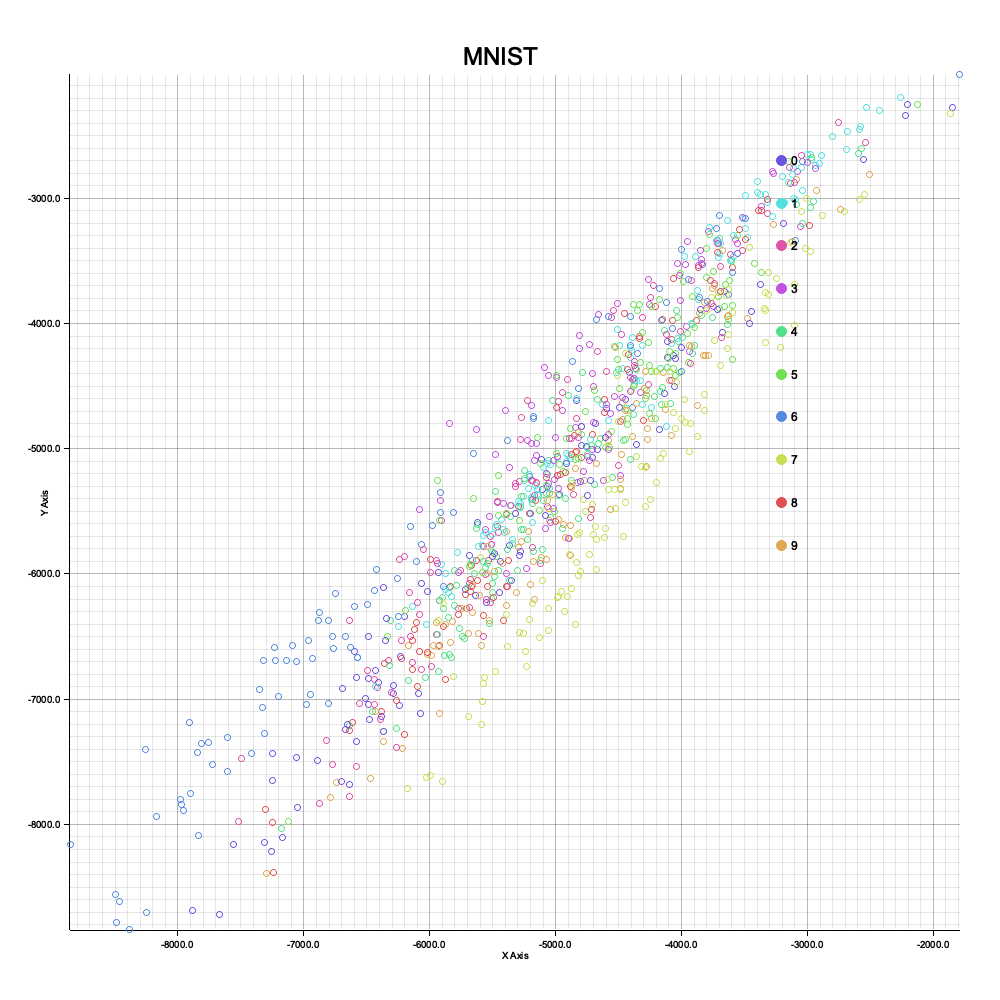
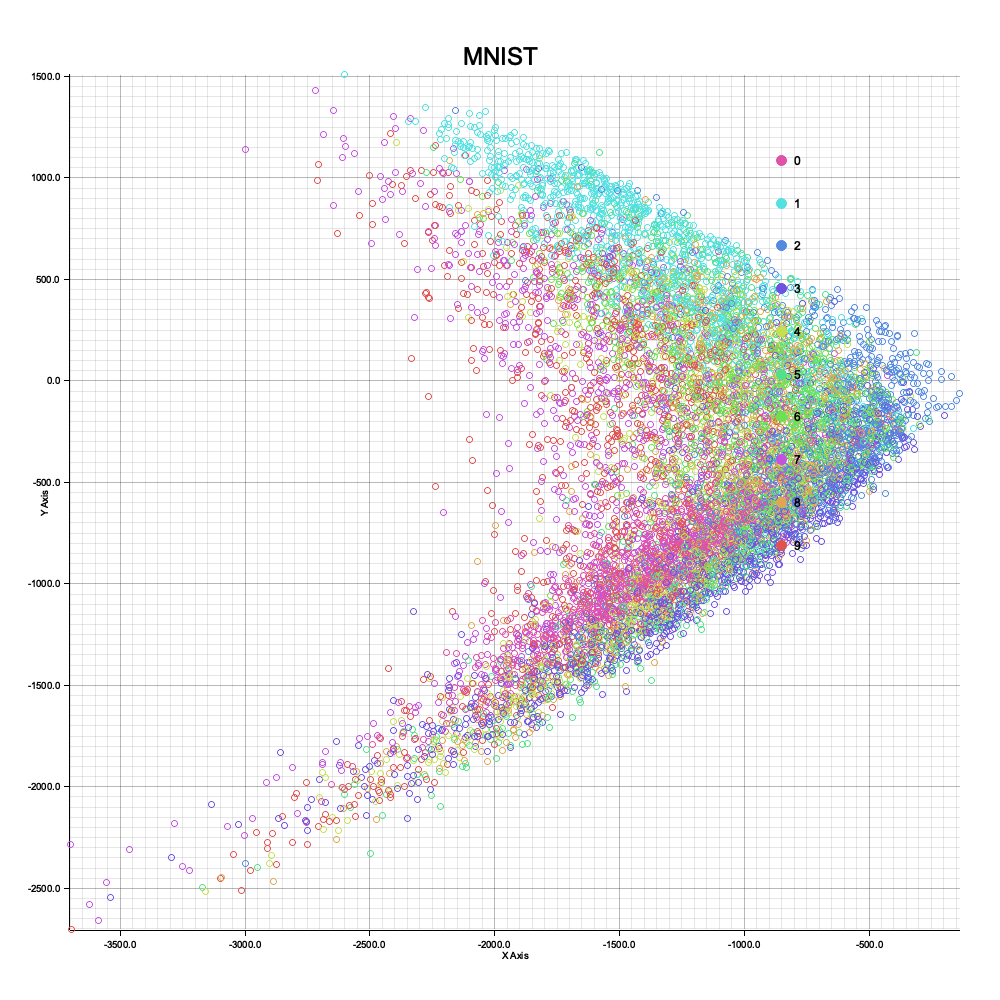
better allocation via parameters

Changed region(s): [[0.031, 0.062, 0.961, 0.961], [0.031, 0.062, 0.062, 0.093]]

diff --git a/examples/mnist.rs b/examples/mnist.rs
@@ -23,15 +23,16 @@ fn main() {
 
     // Set training hyperparameters
     let batch_size = 1_000; // Number of samples per batch during training
-    let num_samples = 1_000 as usize; // Total number of samples in the dataset
+    let num_samples = 10_000 as usize; // Total number of samples in the dataset
 
     // let num_samples = 50_000 as usize; // Total number of samples in the dataset
 
     let num_features = 28 * 28; // Number of features (dimensions) for each sample, size of each mnist image
     let k_neighbors = 15; // Number of nearest neighbors for the UMAP algorithm
     let output_size = 2; // Number of output dimensions (e.g., 2D for embeddings)
-    let hidden_sizes = vec![1000, 1000, 1000]; // Size of the hidden layer in the neural network
+    let hidden_sizes = vec![1000]; // Size of the hidden layer in the neural network
     let learning_rate = 1e-4; // Learning rate for optimization
+    let penalty = 1e-6; // penalty for the Adam optimizer
     let beta1 = 0.9; // Beta1 parameter for the Adam optimizer
     let beta2 = 0.999; // Beta2 parameter for the Adam optimizer
     let epochs = 1_000; // Number of training epochs
@@ -43,9 +44,8 @@ fn main() {
     let metric = Metric::Euclidean; // Alternative metric for neighbors search
     let loss_reduction = LossReduction::Mean;
     // below 1.0 gives NaN loss. Mind that it's rounded to integer inside the function
-    let minkowski_p = 3.0; // 1 is manhattan, 2 is Euclidean
+    // let minkowski_p = 3.0; // 1 is manhattan, 2 is Euclidean
     let normalized = true; // to reduce math, and keep it at float
-    let penalty = 1e-7; // penalty for the Adam optimizer
 
     // let timeout = 30; // timeout in seconds
 
@@ -95,7 +95,7 @@ fn main() {
         .with_min_desired_loss(min_desired_loss) // Set the minimum desired loss for early stopping
         .with_loss_reduction(loss_reduction)
         // .with_timeout(timeout) // set timeout in seconds
-        .with_minkowski_p(minkowski_p)
+        // .with_minkowski_p(minkowski_p)
         .with_normalized(normalized)
         .with_penalty(penalty)
         .build()

diff --git a/src/kernels/euclidean/backward.rs b/src/kernels/euclidean/backward.rs
@@ -15,7 +15,7 @@ use burn::{
 
 use crate::{backend::Backend, print_if, print_primitive_tensor};
 
-const VERBOSE: bool = true;
+const VERBOSE: bool = false;
 
 impl<B: Backend, C: CheckpointStrategy> Backend for Autodiff<B, C> {
     fn euclidean_pairwise_distance(x: FloatTensor<Self>) -> FloatTensor<Self> {
